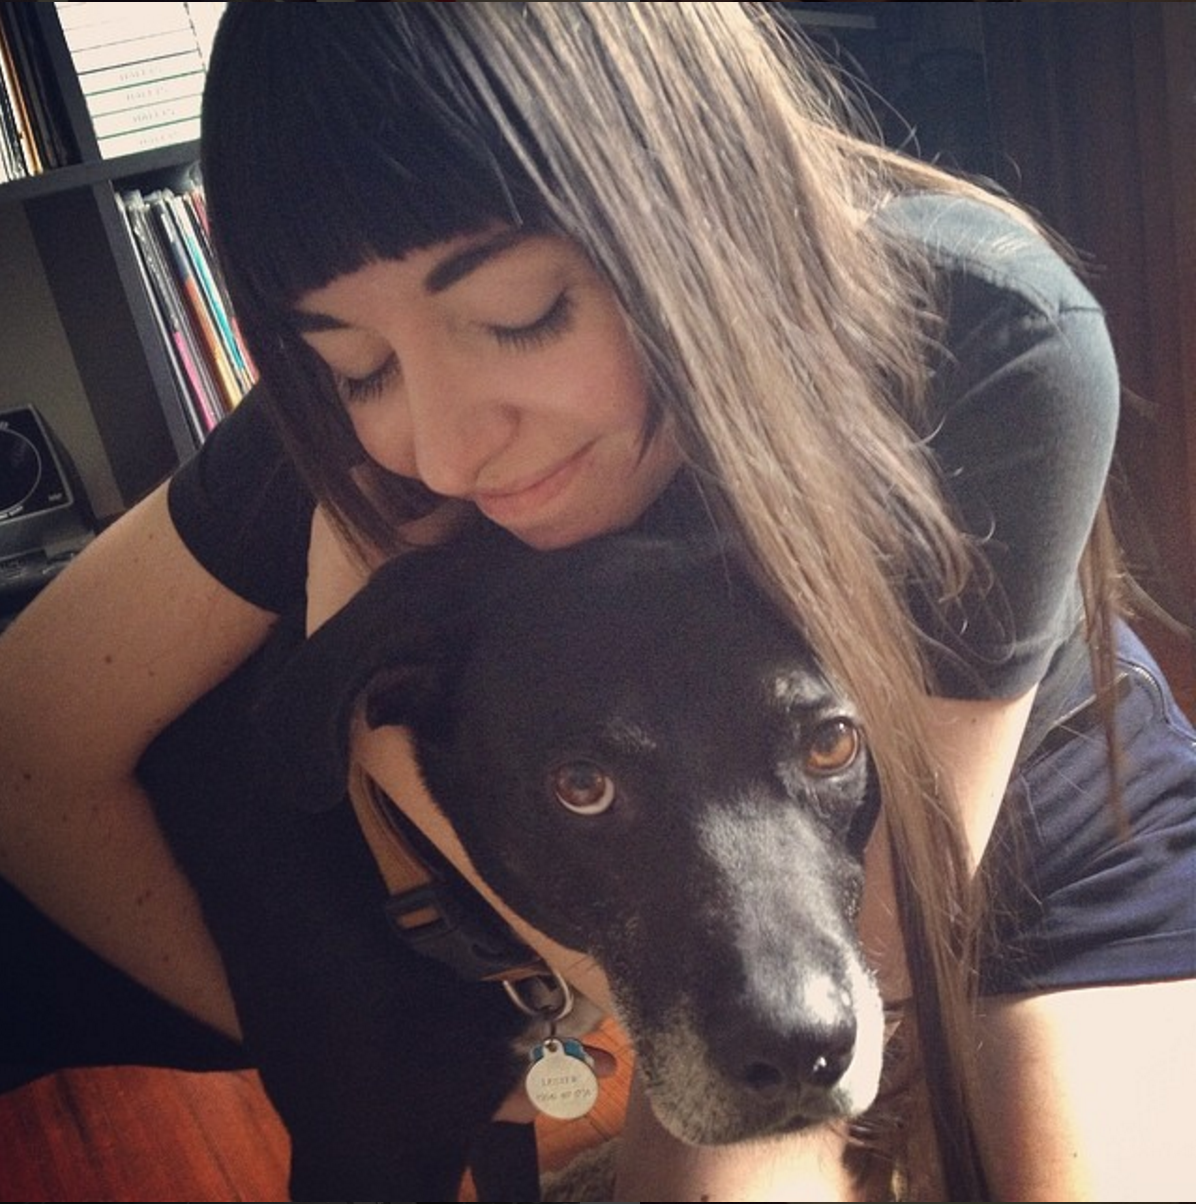
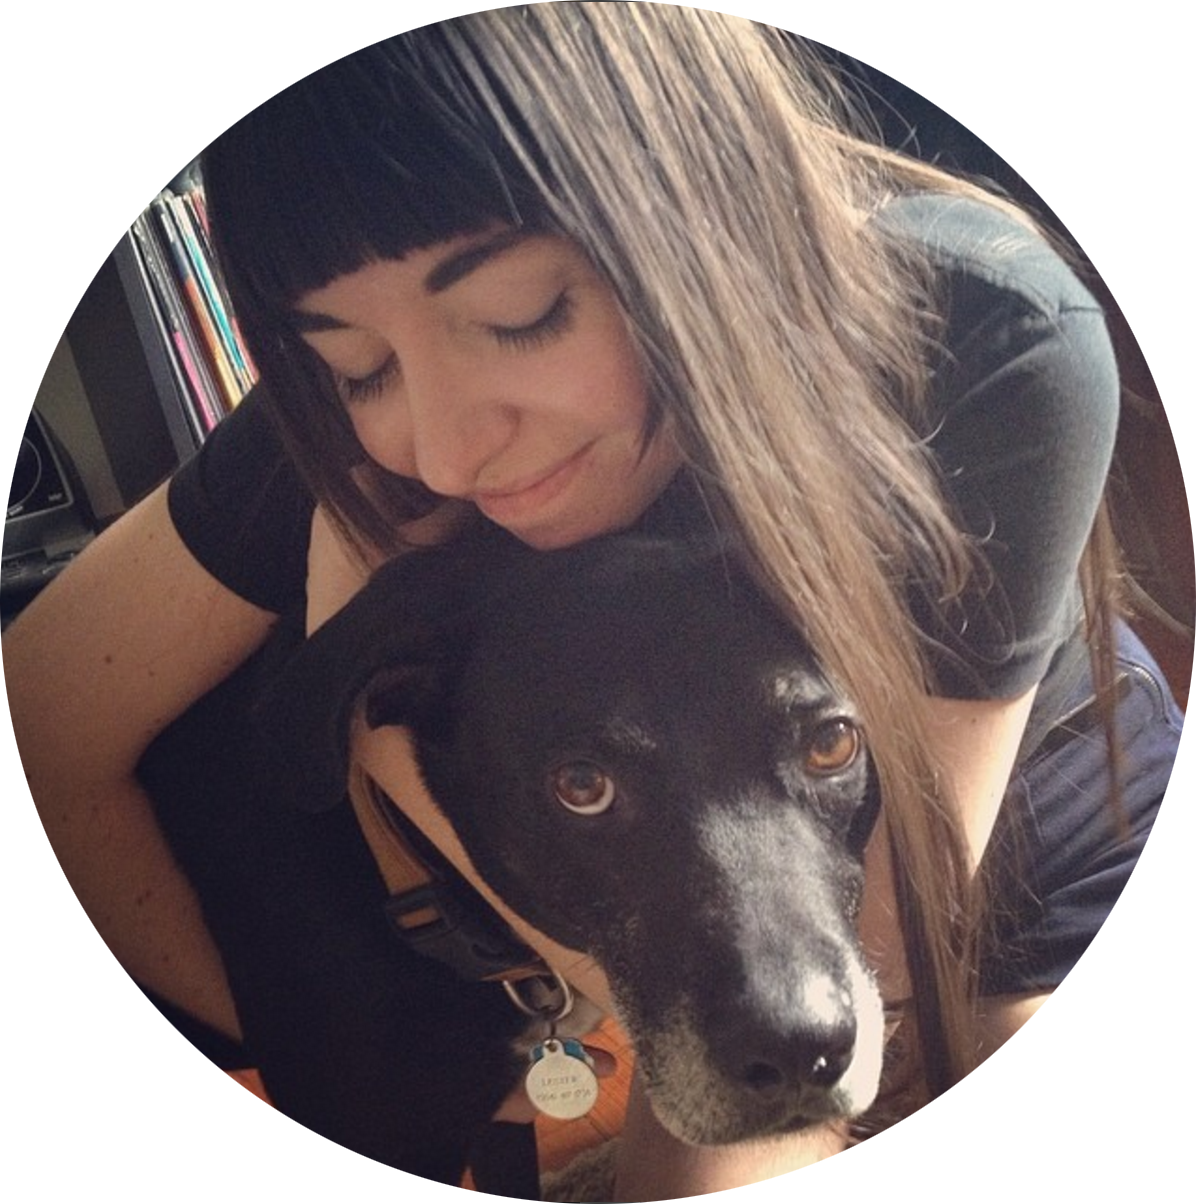
updates to navigation and styling

diff --git a/portfolio.html b/portfolio.html
@@ -1,106 +1,143 @@
 <!DOCTYPE html>
-<html>
-<head>
-<meta charset="utf-8">
-<meta http-equiv="X-UA-Compatible" content="IE=edge">
-<meta name="viewport" content="width=device-width, initial scale=1">
+  <head>
+    <meta charset="utf-8">
+    <meta http-equiv="X-UA-Compatible" content="IE=edge">
+    <meta name="viewport" content="width=device-width, initial scale=1">
 	<title>Melissa J Guion</title>
   <!-- jquery -->
-	<script src="https://code.jquery.com/jquery-1.12.3.min.js"></script>
-	<script src="js/bootstrap.min.js"></script>
-  <!-- Font Awesome -->
-  <link href="http://maxcdn.bootstrapcdn.com/font-awesome/4.1.0/css/font-awesome.min.css" rel="stylesheet">
-  <!-- Bootstrap -->
-  <link rel="stylesheet" type="text/css" href="css/bootstrap.min.css">
-  <!-- my custom stylesheet -->
-  <link rel="stylesheet" type="text/css" href="portfolio.css">
-  <!-- main navigation, Bootstrap -->
-  <nav class="navbar navbar-inverse navbar-fixed-top">
-  <div class="container-fluid">
+	 <script src="https://code.jquery.com/jquery-1.12.3.min.js"></script>
+	 <script src="js/bootstrap.min.js"></script>
+    <!-- Font Awesome -->
+    <link href="http://maxcdn.bootstrapcdn.com/font-awesome/4.1.0/css/font-awesome.min.css" rel="stylesheet">
+    <!-- Bootstrap -->
+    <link rel="stylesheet" type="text/css" href="css/bootstrap.min.css">
+    <!-- my custom stylesheet -->
+    <link rel="stylesheet" type="text/css" href="portfolio.css">
+    <!-- main navigation, Bootstrap -->
+    <nav class="navbar navbar-inverse navbar-fixed-top">
+    <div class="container-fluid">
     <!-- Brand and toggle get grouped for better mobile display -->
-    <div class="navbar-header">
-      <button type="button" class="navbar-toggle collapsed" data-toggle="collapse" data-target="#bs-example-navbar-collapse-1" aria-expanded="false">
+      <div class="navbar-header">
+        <button type="button" class="navbar-toggle collapsed" data-toggle="collapse" data-target="#bs-example-navbar-collapse-1" aria-expanded="false">
         <span class="sr-only">Toggle navigation</span>
         <span class="icon-bar"></span>
         <span class="icon-bar"></span>
         <span class="icon-bar"></span>
-      </button>
+        </button>
       <a class="navbar-brand" href="#"><i class="fa fa-barcode fa-2x" aria-hidden="true"></i></a>
-    </div>
+      </div>
 
     <!-- Collect the nav links, forms, and other content for toggling -->
-    <div class="collapse navbar-collapse" id="bs-example-navbar-collapse-1">
-      <ul class="nav navbar-nav">
-        <li class="active"><a href="#">Projects<span class="sr-only">(current)</span></a></li>
-        <li><a href="#">About</a></li>
-      </ul>
-      <ul class="nav navbar-nav navbar-right">
-        <li>
-          <a href="https://github.com/sudoisfine" target="_blank" class="icon">
-            <i class="fa fa-github fa-2x" aria-hidden="true" title="github"></i></i>
-          </a>
-        </li>
-        <li>
-          <a href="mailto:m.guion@gmail.com" target="_blank" class="icon">
-            <i class="fa fa-envelope fa-2x" title="email"></i>
-          </a>
-        </li>
-        <li>
-          <a href="http://cargocollective.com/mjguion" target="_blank" class="icon">
-            <i class="fa fa-bolt fa-2x" aria-hidden="true" title="Cargo Collective"></i>
-          </a>
-        </li>
-      </ul>
-    </div><!-- /.navbar-collapse -->
-  </div><!-- /.container-fluid -->
-</nav>
-</head>
+      <div class="collapse navbar-collapse" id="bs-example-navbar-collapse-1">
+        <ul class="nav navbar-nav">
+            <li class="active"><a href="#projects">Projects<span class="sr-only">(current)</span></a></li>
+            <li><a href="#low">About</a></li>
+        </ul>
+        <ul class="nav navbar-nav navbar-right">
+            <li>
+              <a href="https://github.com/sudoisfine" target="_blank" class="icon">
+                <i class="fa fa-github fa-2x" aria-hidden="true" title="github"></i></i>
+              </a>
+            </li>
+            <li>
+              <a href="mailto:m.guion@gmail.com" target="_blank" class="icon">
+                <i class="fa fa-envelope fa-2x" title="email"></i>
+              </a>
+            </li>
+            <li>
+              <a href="http://cargocollective.com/mjguion" target="_blank" class="icon">
+                  <i class="fa fa-bolt fa-2x" aria-hidden="true" title="Cargo Collective"></i>
+                </a>
+            </li>
+          </ul>
+        </div><!-- /.navbar-collapse -->
+      </div><!-- /.container-fluid -->
+    </nav>
+  </head>
 
 <body>
 <div class="jumbotron">
-<div class="container-fluid">
-  <h1 id="title">Melissa J Guion</h1>
-  <h2 class="fancy">Developer // New Orleans, LA</h2>
+  <div class="container-fluid">
+    <h1 id="title">Melissa J Guion</h1>
+      <h2 class="fancy">Developer // New Orleans, LA</h2>
   </div>
 </div>
 
 <!-- Projects area -->
 <div class="container-fluid" id="projects">
-<h2 class="fancy">Current Projects</h2>
-	<div class="row">
-	<div class="col-xs-6"><p><i class="fa fa-envelope" title="email"></i></p></div>
-	<div class="col-xs-6"><p>GO HERE!</p></div>
-	</div>
+  <div class="projects">
+    <h2 id="fancier">Current Projects</h2>
+  </div>
+  <div class="row">
+    <div class="text">
+      <h3 class="reg">1000 HOURS FREE</h3>
+        <p class="fancy">An online shop for bits of Internet nostalgia built with Ruby on Rails, HTML, CSS, and Bootstrap. Fully-functional storefront as well as Admin functionality for product management. To-be-deployed soon! Click the thumbnails below for images from the site.</p>
+    </div>
+  </div>
+
+  <div class="row">
+    <div class="col-xs-6 col-md-2">
+      <a href="files/NetStore-main.png" class="thumbnail" target="_blank">
+        <img src="files/NetStore-main.png" alt="1000 Hours Free main shop view">
+      </a>
+    </div>
+    <div class="col-xs-6 col-md-2">
+      <a href="files/NetStore-about.png" class="thumbnail" target="_blank">
+        <img src="files/NetStore-about.png" alt="1000 Hours Free About view">
+      </a>
+    </div>
+    <div class="col-xs-6 col-md-2">
+      <a href="files/NetStore-admin.png" class="thumbnail" target="_blank">
+        <img src="files/NetStore-admin.png" alt="1000 Hours Free products Admin view">
+      </a>
+    </div>
+    <div class="col-xs-6 col-md-2">
+      <a href="files/NetStore-modal.png" class="thumbnail" target="_blank">
+        <img src="files/NetStore-modal.png" alt="1000 Hours Free product quick view">
+      </a>
+    </div>
+    <div class="col-xs-6 col-md-2">
+      <a href="files/NetStore-dropdown.png" class="thumbnail" target="_blank">
+        <img src="files/NetStore-dropdown.png" alt="1000 Hours Free main navigation">
+      </a>
+    </div>
+    <div class="col-xs-6 col-md-2">
+      <a href="files/NetStore-cart.png" class="thumbnail" target="_blank">
+        <img src="files/NetStore-cart.png" alt="1000 Hours Free cart view">
+      </a>
+    </div>
+  </div>
+  <div class="row">
+    <div class="col-xs-6 col-md-8 text">
+      <h3 class="reg">Cold Carnival</h3>
+        <p class="fancy">A site for a new local music and multi-media label out of New Orleans built using Ruby on Rails, HTML, CSS, and Bootstrap. Currently in development.</p>
+    </div>
+    <div class="col-xs-6 col-md-4">
+    <a href="files/ColdCarnival-CS.png" class="thumbnail" target="_blank">
+      <img src="files/ColdCarnival-CS.png" alt="Cold Carnival temporary main page">
+    </a>
+  </div>
 </div>
 <!-- End Projects area -->
 
 <!-- About section -->
-<div class="container-fluid" id="about">
-	<div class="row">
-		<div class="col-xs-10">
-		<h2 class="fancy">About Me</h2>
-			<P id="reg">I'm a New Orleanean/Cuban who caught the coding bug while studying music in college. After that, I worked for several years in software development as an application tester and support administrator, among other roles. As a bit of a "Jill of all trades," I've also worked as an illustrator, a graphic designer, a web development tester, a copy writer, a copy editor, and a technical writer. Through my experience, I've learned that I thoroughly enjoy working through puzzles and creating beautiful solutions. There is no problem that cannot be solved in a good way.
-			</p>
-			</div>
-		<div class="col-xs-2">
-			<img src="files/Lester_new.png" alt="A photo of me hugging my dog. " class="img-responsive">
-		</div>
-	</div>
+<div id="low">
+  <div class="container-fluid">
+  	<div class="row">
+      <div class="col-xs-2">
+        <img src="files/Lester_new.png" alt="A photo of me hugging my dog. " class="img-responsive">
+      </div>
+  		<div class="col-xs-10">
+  		  <h2 class="fancy">About Me</h2>
+    			<p id="reg">I'm a New Orleanean/Cuban who caught the coding bug while studying music in college. After that, I worked for several years in software development as an application tester and support administrator, among other roles. As a bit of a "Jill of all trades," I've also worked as an illustrator, a graphic designer, a web development tester, a copy writer, a copy editor, and a technical writer. Through my experience, I've learned that I thoroughly enjoy working through puzzles and creating beautiful solutions. There is no problem that cannot be solved in a good way.
+    			</p>
+  		</div>
+  	</div>
+  </div>
 </div>
 
 <br>
 <br>
 
-
-<!-- <div>
-<footer class="footer"> -->
-<!-- <h3 id="fancy">Get in touch!</h3>
-<address style="float: left;">
-<a href="mailto:m.guion@gmail.com">e-mail me</a>
-</address>
-<a style="float: right;" href="https://github.com/sudoisfine" target="_blank";><img src="files/GH.png" width="40px" height="40px"/></a> -->
-<!-- </footer>
-</div>
- -->
 </body>
 </html>

diff --git a/portfolio.css b/portfolio.css
@@ -1,4 +1,4 @@
-@import url(https://fonts.googleapis.com/css?family=Poiret+One|Merriweather:700,400);
+@import url(https://fonts.googleapis.com/css?family=Poiret+One|Merriweather:700,400,300);
 
 /*Header section*/
 .icon {
@@ -50,41 +50,37 @@ a:active {
 
 /*body section*/
 
-#about {
+#fancier {
+  font-family: 'Merriweather', serif;
+  font-weight: 700;
+  background-color: #ffffff;
+  padding-top: 50px;
+  text-align: center;
+}
+
+.text {
   color: #29293d;
-  background-color: #f0f0f5;
+  font-size: 1.5em;
+  background-color: #ffffff;
+  padding: 30px;
 }
 
 .fancy {
   font-family: 'Poiret One', cursive;
+  padding-top: 15px;
+  padding-bottom: 10px;
 }
 
-#reg {
+.reg {
   font-family: 'Merriweather', serif;
   font-weight: 400;
   padding: 1.5%;
+  text-align: center;
 }
 
-#projects {
-  color: #29293d
-  padding: 100px, 0;
+#low {
+  background-color: ##f0f0f5;
+  color: #29293d;
 }
 
 /*end body section*/
-
-/*footer*/
-
-.footer {
-  bottom: 0;
-  width: 100%;
-  height: 105px;
-  background-color: #f0f0f5;
-  padding: .5%;
-}
-
-.navbar.navbar-default.navbar-fixed-bottom {
-  margin-left: 0;
-  margin-right: 0;
-}
-
-/*end footer*/
